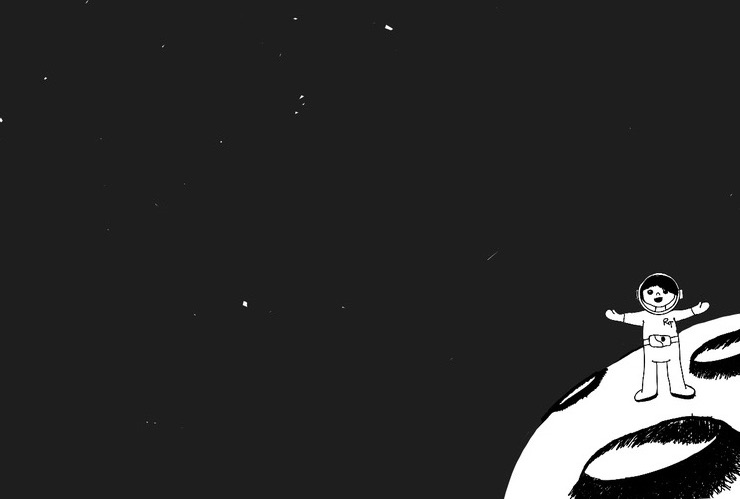
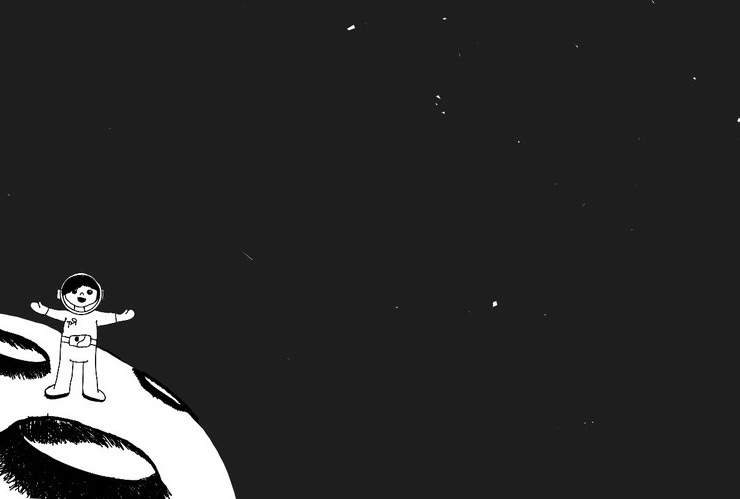
added formatting to Resume section, added static code for skills section ; mirrored background img to adjust to screesize appropriately

Changed region(s): [[0.6838, 0.5411, 1.0, 1.0], [0.0, 0.5411, 0.3419, 1.0]]

diff --git a/src/components/Nav.js b/src/components/Nav.js
@@ -25,37 +25,39 @@ export default function Nav() {
   };
 
   return (
-    <FormControl sx={{ m: 1, minWidth: 120, padding: 5 }} size="medium">
-      <InputLabel
-        sx={{ padding: 5, textAlign: "center" }}
-        id="select-medium-label"
-        className="nav-font"
-      >
-        NAVIGATE
-      </InputLabel>
-      <Select
-        labelId="select-medium-label"
-        className="nav-font"
-        id="demo-select-medium"
-        value={navigation}
-        label="Navigation"
-        onChange={handleNavigation}
-      >
-        <MenuItem component={Link} to="/" sx={{ color }} value="About">
-          About
-        </MenuItem>
-        <MenuItem
-          component={Link}
-          to="/portfolio"
-          sx={{ color }}
-          value="Portfolio"
+    <div>
+      <FormControl sx={{ m: 1, minWidth: 120, padding: 5 }} size="medium">
+        <InputLabel
+          sx={{ padding: 5, textAlign: "center" }}
+          id="select-medium-label"
+          className="nav-font"
         >
-          Portfolio
-        </MenuItem>
-        <MenuItem component={Link} to="/resume" sx={{ color }} value="Resume">
-          Resume
-        </MenuItem>
-      </Select>
-    </FormControl>
+          NAVIGATE
+        </InputLabel>
+        <Select
+          labelId="select-medium-label"
+          className="nav-font"
+          id="demo-select-medium"
+          value={navigation}
+          label="Navigation"
+          onChange={handleNavigation}
+        >
+          <MenuItem component={Link} to="/" sx={{ color }} value="About">
+            About
+          </MenuItem>
+          <MenuItem
+            component={Link}
+            to="/portfolio"
+            sx={{ color }}
+            value="Portfolio"
+          >
+            Portfolio
+          </MenuItem>
+          <MenuItem component={Link} to="/resume" sx={{ color }} value="Resume">
+            Resume
+          </MenuItem>
+        </Select>
+      </FormControl>
+    </div>
   );
 }

diff --git a/src/components/Footer.js b/src/components/Footer.js
@@ -15,7 +15,7 @@ import Button from "@mui/material/Button";
 import Modal from "@mui/material/Modal";
 import emailjs from "@emailjs/browser";
 
-const style = {
+const modalStyle = {
   position: "absolute",
   top: "50%",
   left: "50%",
@@ -71,6 +71,7 @@ export default function Footer() {
         }}
       >
         <BottomNavigation showLabels>
+          <div className="name">Ryan Tixier</div>
           <BottomNavigationAction
             component={Link}
             href={LinkedIn}
@@ -96,8 +97,8 @@ export default function Footer() {
               aria-labelledby="contact-me-modal"
               aria-describedby="contact-me-modal"
             >
-              <Box sx={style}>
-                <form ref={form} onSubmit={sendEmail}>
+              <Box sx={modalStyle}>
+                <form className="contact-form" ref={form} onSubmit={sendEmail}>
                   <h3>Contact</h3>
                   <div>
                     <TextField
@@ -105,6 +106,7 @@ export default function Footer() {
                       required
                       label="Full Name"
                       variant="standard"
+                      fullWidth
                     />
                   </div>
                   <div>
@@ -114,6 +116,7 @@ export default function Footer() {
                       type="email"
                       label="Email"
                       variant="standard"
+                      fullWidth
                     />
                   </div>
                   <div>
@@ -125,6 +128,7 @@ export default function Footer() {
                       multiline
                       minRows={4}
                       maxRows={7}
+                      fullWidth
                     />
                   </div>
                   <Button

diff --git a/src/App.js b/src/App.js
@@ -1,7 +1,7 @@
 import React from "react";
 import { HashRouter as Router, Route, Routes } from "react-router-dom";
 import Header from "./components/Header";
-import Nav from "./components/Nav";
+// import Nav from "./components/Nav";
 import Footer from "./components/Footer";
 import About from "./pages/About";
 import Portfolio from "./pages/Portfolio";
@@ -33,7 +33,7 @@ function App() {
             minSize={7}
             maxSize={12}
             overflowPx={0}
-            fadeOutSpeed={0.5}
+            fadeOutSpeed={1}
             flicker={false}
           />
           <div className="container">
@@ -42,7 +42,6 @@ function App() {
               <Route path="/" element={<About />} />
               <Route path="/portfolio" element={<Portfolio />} />
               <Route path="/resume" element={<Resume />} />
-              {/* <Route path="/contact" element={<Contact />} /> */}
             </Routes>
           </div>
         </div>

diff --git a/src/pages/Resume.js b/src/pages/Resume.js
@@ -4,13 +4,24 @@ import { Button } from "@mui/material";
 
 export default function Resume() {
   return (
-    <div>
-      <h1>RESUME/SKILLS</h1>
-      <Button variant="outlined">
-        <a href={resume} download="resume">
-          Download My Resume!
-        </a>
-      </Button>
-    </div>
+    <>
+      <h2 className="page-title">RESUME</h2>
+      <div className="page-content">
+        <Button
+          color="primary"
+          variant="outlined"
+          href={resume}
+          download="RT-Resume"
+        >
+          Click to Download Resume
+        </Button>
+        <h2 className="page-title">SKILLS</h2>
+        <p>HTML</p>
+        <p>CSS</p>
+        <p>JavaScript</p>
+        <p>React.js</p>
+        <p>Node.js</p>
+      </div>
+    </>
   );
 }

diff --git a/src/components/Header.js b/src/components/Header.js
@@ -4,10 +4,13 @@ import "../App.css";
 
 export default function Header() {
   return (
-    <>
+    <div className="container">
+      {/* <div className="header">RYAN TIXIER</div> */}
       <Nav />
-      <h1 className="header">RYAN TIXIER</h1>
-    </>
+    </div>
   );
 }
 // make props = page-title
+
+// ADD IMG/AVATAR
+// FLOAT NAV TO RIGHT-START OF IMG

diff --git a/src/App.css b/src/App.css
@@ -27,8 +27,17 @@
   bottom: 0px;
 }
 
-.header {
+/* .header {
+  float: inline-start;
+  width: 500px;
+  color: aliceblue;
+} */
+
+.name {
+  margin: auto;
+  font-size: 25px;
   text-align: center;
+  width: 200px;
 }
 
 .page-title {
